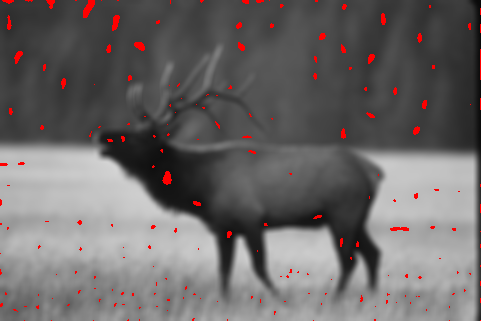
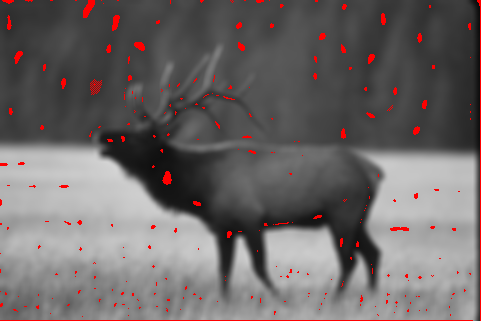
Starting drain differentiation

diff --git a/main.py b/main.py
@@ -10,7 +10,7 @@ from timeit import default_timer as timer
 from utils import *
 
 def main(argv):
-    usage = "main.py -i <image)> -s <sigma> -n <noise> -m <minima>  -v <verbosity> -k <kernel_size> -c <connectedness>"
+    usage = "main.py -i <image)> -c <connectedness> -m <minima> -n <noise> -s <sigma> -k <kernel_size> -v <verbosity> "
     try:
         opts, args = getopt.getopt(argv, "hi:s:n:m:v:k:c:")
     except getopt.GetoptError:
@@ -34,9 +34,11 @@ def main(argv):
             print(usage)
             print("Example usage: main.py -i coins -s x -n x -m x -v False -c 4")
             print("\tImage (str): elk, coins, coins_g, moon")
-            print("\tSigma (float): ")
-            print("\tNoise (integer): ")
-            print("\tMinima (integer): ")
+            print("\tConnectedness (4 or 8): which pixels to consider neighbors")
+            print("\tMinima (integer): number of drains to be kept, lowest minima preferred")
+            print("\tNoise (float): percent of maximum pixel for range of noise added")
+            print("\tSigma (float): blurring strength")
+            print("\tKernel size(odd integer): size of blurring kernel, calculated from sigma if not specified")
             print("\tVerbosity (str): True, False")
             print("No required arguments")
         elif opt == '-s':
@@ -91,6 +93,15 @@ def main(argv):
                     connect = 4
             except:
                 print("Connectedness must be '4' or '8'")
+        elif opt == '-n':
+            try:
+                noise = float(arg)
+            except ValueError:
+                print("Noise must be a number 0-100")
+                sys.exit(2)
+            if noise < 0 or noise > 100:
+                print("Noise must be a number 0-100")
+                sys.exit(2)
                 
     # prepare file names
     file_suffix = image.rsplit("/", 1)[1].rsplit(".", 1)[0] + '_c_' + str(connect) + '_m_' + str(minima) + '_n_' + str(noise) + '_s_' + str(sigma) + '_k_' + str(kernel_size) 
@@ -104,17 +115,28 @@ def main(argv):
     # load image
     img = cv2.imread(image, cv2.IMREAD_GRAYSCALE)
     
-    # pad image
+    # pre-process image
     start = timer()
-    if kernel_size > 0:
-        pad_amount = int((kernel_size-1)/2)
-        pad = pad_array(img, pad_amount)
+    if kernel_size > 1 or noise != 0.0:
+        # add noise
+        if noise != 0.0:
+            pc_noise = np.max(img)*noise/100
+            noise_arr = np.random.randint(-1*pc_noise, high=pc_noise, size=img.shape)
+            img = img + noise_arr
+            
+            for i in range(0,img.shape[0]):
+                for j in range(0,img.shape[1]):
+                    if img[i,j] < 0:
+                        img[i,j] = 0
+        
+        # pad image, blur image, and crop to original image
+        if kernel_size > 1:
+            pad_amount = int((kernel_size-1)/2)
+            pad = pad_array(img, pad_amount)
+            H = Gaussian2D(kernel_size, sigma)
+            img = (image_filter2d(pad, H)[pad_amount:pad_amount+img.shape[0], pad_amount:pad_amount+img.shape[1]]).round(decimals=0)
     
-        # blur image and crop to original image
-        H = Gaussian2D(kernel_size, sigma)
-        x = (image_filter2d(pad, H)[pad_amount:pad_amount+img.shape[0], pad_amount:pad_amount+img.shape[1]]).round(decimals=0)
-    else:
-        x = img
+    x = img
     end = timer()
     log("\nTime taken for preprocessing: {0:.3f}".format(end - start), file=logfile)
        
@@ -164,6 +186,14 @@ def main(argv):
     start = timer()
     drains, drain_values = grow_regions(x, L, unlabeled=1, connectedness=connect)
     num_drains = len(drains)
+    if num_drains > minima:
+        drains_sorted = {key: value for key, value in sorted(drains.items(), key=lambda item: item[1])}
+        keys = drains_sorted.keys()
+        for key in drains_sorted.keys():
+            if keys.index(key) > minima:
+                drains_sorted.pop(key)
+            
+    
     
     # discard larger drains over requested number of minima
     if num_drains > minima:

diff --git a/utils.py b/utils.py
@@ -126,6 +126,7 @@ def grow_regions(image, labels, unlabeled=0, connectedness=8):
     X,Y = image.shape
     next_label = unlabeled + 1
     change_flag = True
+    region_dic = {}
     regions = []
     vals = []
     while change_flag:
@@ -137,6 +138,7 @@ def grow_regions(image, labels, unlabeled=0, connectedness=8):
                     current_label = next_label
                     next_label = next_label + 1
                     change_flag = True
+                    regions[current_label-unlabeled] = image[i,j]
                     regions.append(current_label-unlabeled)
                     vals.append(image[i,j])
                     
